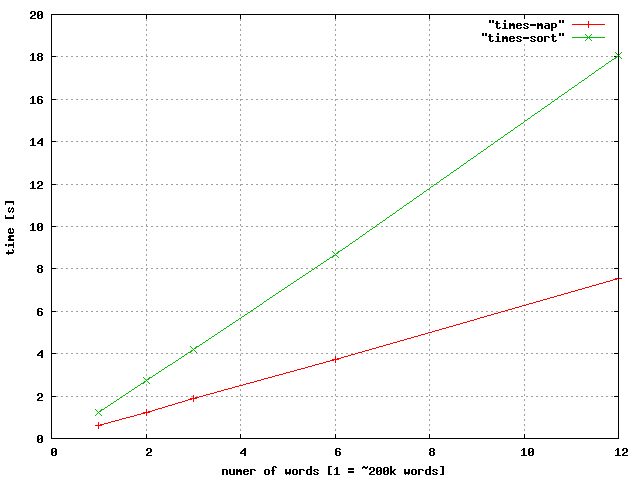
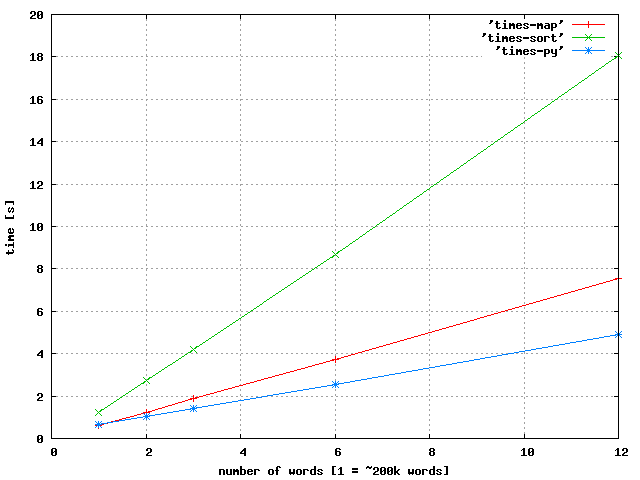
python version

diff --git a/lab1/lab1.py b/lab1/lab1.py
@@ -1,0 +1,14 @@
+import sys
+from collections import defaultdict
+
+INVALID_CHARS = ',:;.()[]{}'
+def clear(w):
+	return w.strip(INVALID_CHARS)
+
+m = defaultdict(int)
+for line in sys.stdin:
+	for word in line.split():
+		m[clear(word)] += 1
+
+for item in sorted(m.items(), key=lambda item: item[1], reverse=True):
+	print(item[0], item[1])
